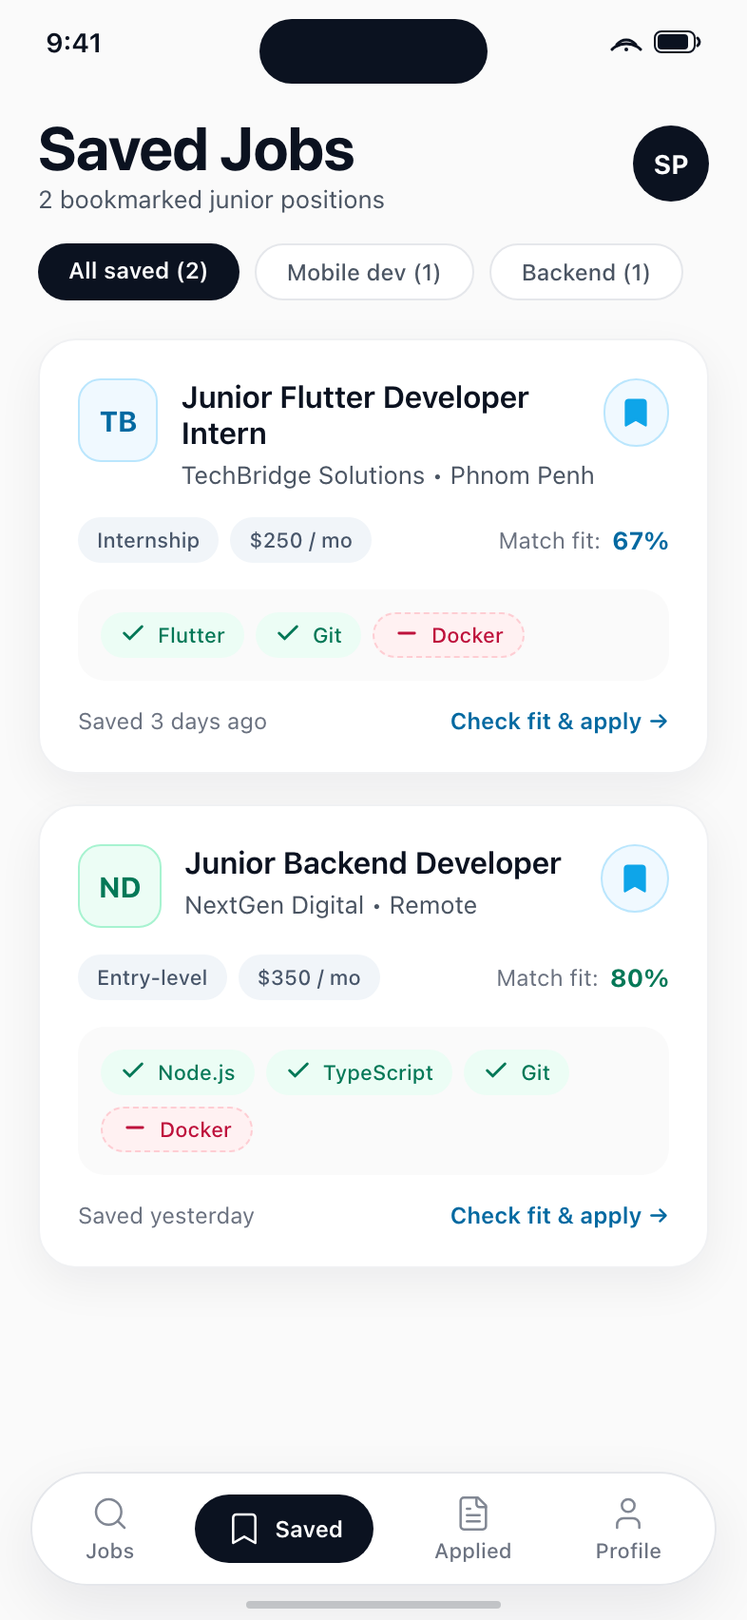
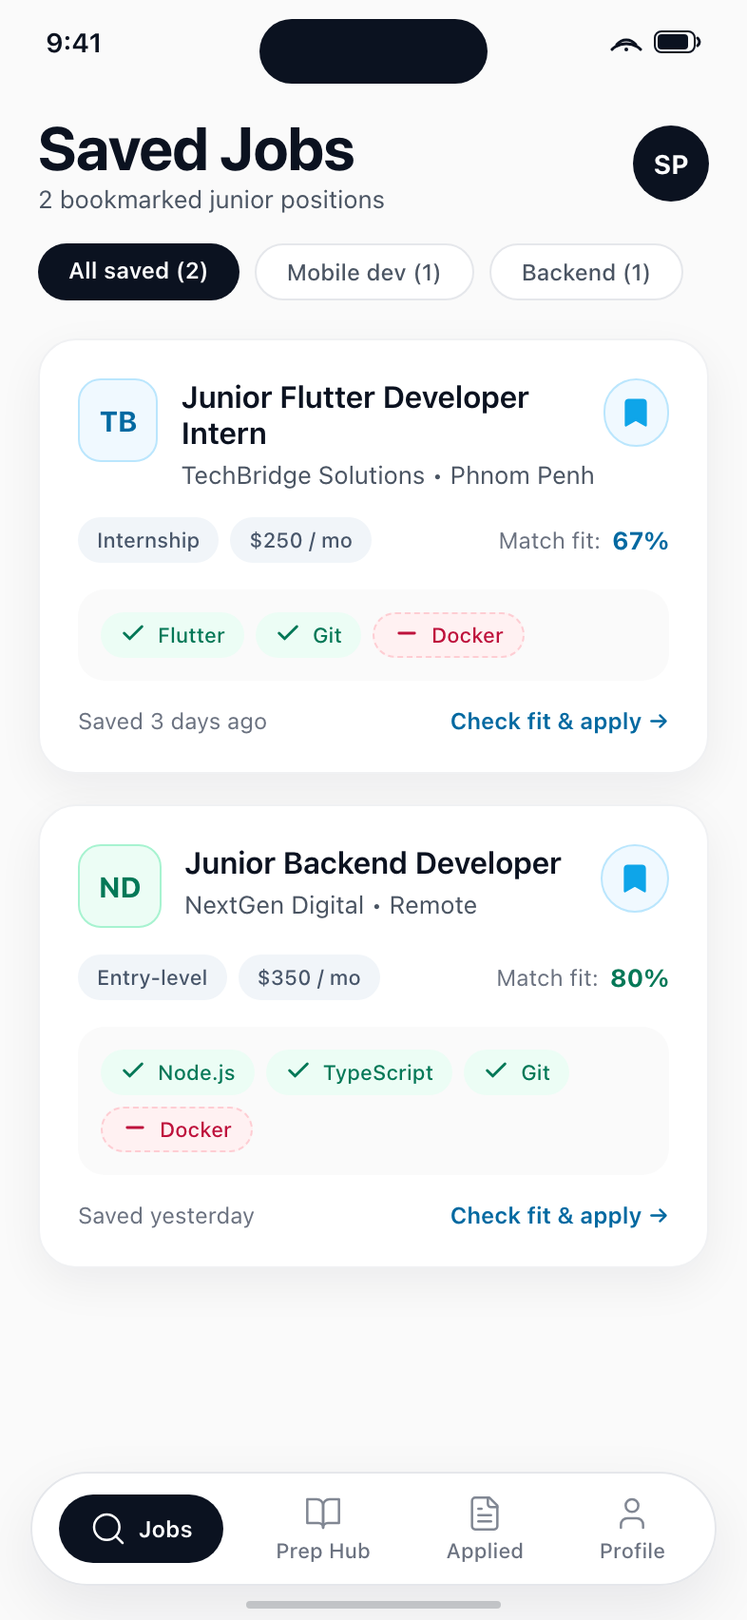
feat(navigation): integrate Prep Hub directly into mobile bottom nav (Option 1A)

Changed region(s): [[0.0611, 0.902, 0.5191, 0.9642], [0.5802, 0.902, 0.7023, 0.9642], [0.7939, 0.902, 0.8855, 0.9642]]

diff --git a/context/assets/figma/importable/devpath_redesign_master_board.html b/context/assets/figma/importable/devpath_redesign_master_board.html
@@ -709,6 +709,10 @@
   <div style="background: #0B1220; color: #FFFFFF; padding: 7px 16px; border-radius: 9999px; font-size: 12px; font-weight: 600; white-space: nowrap; cursor: pointer;">
     All roles (14)
   </div>
+  <div style="background: #FFFFFF; color: #4B5563; border: 1px solid #E5E7EB; padding: 7px 14px; border-radius: 9999px; font-size: 12px; font-weight: 500; white-space: nowrap; cursor: pointer; display: flex; align-items: center; gap: 5px;">
+    <span><svg width="20" height="20" viewBox="0 0 24 24" fill="none" stroke="currentColor" stroke-width="1.5" stroke-linecap="round" stroke-linejoin="round"><path d="m19 21-7-4-7 4V5a2 2 0 0 1 2-2h10a2 2 0 0 1 2 2v16z"/></svg></span>
+    <span>Saved (2)</span>
+  </div>
   <div style="background: #FFFFFF; color: #4B5563; border: 1px solid #E5E7EB; padding: 7px 16px; border-radius: 9999px; font-size: 12px; font-weight: 500; white-space: nowrap; cursor: pointer;">
     Mobile dev
   </div>
@@ -824,8 +828,8 @@
                 </div>
                 
                 <div style="display: flex; flex-direction: column; align-items: center; gap: 3px; color: #6B7280; font-size: 11px; font-weight: 500; padding: 6px 12px;">
-                  <span style="display: flex; align-items: center; opacity: 0.85;"><svg width="20" height="20" viewBox="0 0 24 24" fill="none" stroke="currentColor" stroke-width="1.5" stroke-linecap="round" stroke-linejoin="round"><path d="m19 21-7-4-7 4V5a2 2 0 0 1 2-2h10a2 2 0 0 1 2 2v16z"/></svg></span>
-                  <span>Saved</span>
+                  <span style="display: flex; align-items: center; opacity: 0.85;"><svg width="20" height="20" viewBox="0 0 24 24" fill="none" stroke="currentColor" stroke-width="1.5" stroke-linecap="round" stroke-linejoin="round"><path d="M2 3h6a4 4 0 0 1 4 4v14a3 3 0 0 0-3-3H2z"/><path d="M22 3h-6a4 4 0 0 0-4 4v14a3 3 0 0 1 3-3h7z"/></svg></span>
+                  <span>Prep Hub</span>
                 </div>
                 
                 <div style="display: flex; flex-direction: column; align-items: center; gap: 3px; color: #6B7280; font-size: 11px; font-weight: 500; padding: 6px 12px;">
@@ -1096,14 +1100,14 @@
         
         <div style="position: absolute; bottom: 18px; left: 16px; right: 16px; height: 60px; background: rgba(255, 255, 255, 0.94); backdrop-filter: blur(20px); -webkit-backdrop-filter: blur(20px); border: 1px solid #E5E7EB; border-radius: 9999px; box-shadow: 0 12px 32px rgba(11, 18, 32, 0.08); display: flex; align-items: center; justify-content: space-around; z-index: 50; padding: 0 6px;">
           
-                <div style="display: flex; flex-direction: column; align-items: center; gap: 3px; color: #6B7280; font-size: 11px; font-weight: 500; padding: 6px 12px;">
-                  <span style="display: flex; align-items: center; opacity: 0.85;"><svg width="20" height="20" viewBox="0 0 24 24" fill="none" stroke="currentColor" stroke-width="1.5" stroke-linecap="round" stroke-linejoin="round"><circle cx="11" cy="11" r="8"/><path d="m21 21-4.3-4.3"/></svg></span>
+                <div style="background: #0B1220; color: #FFFFFF; border-radius: 9999px; padding: 8px 16px; display: flex; align-items: center; gap: 6px; font-size: 12px; font-weight: 600;">
+                  <span style="display: flex; align-items: center;"><svg width="20" height="20" viewBox="0 0 24 24" fill="none" stroke="currentColor" stroke-width="1.5" stroke-linecap="round" stroke-linejoin="round"><circle cx="11" cy="11" r="8"/><path d="m21 21-4.3-4.3"/></svg></span>
                   <span>Jobs</span>
                 </div>
                 
-                <div style="background: #0B1220; color: #FFFFFF; border-radius: 9999px; padding: 8px 16px; display: flex; align-items: center; gap: 6px; font-size: 12px; font-weight: 600;">
-                  <span style="display: flex; align-items: center;"><svg width="20" height="20" viewBox="0 0 24 24" fill="none" stroke="currentColor" stroke-width="1.5" stroke-linecap="round" stroke-linejoin="round"><path d="m19 21-7-4-7 4V5a2 2 0 0 1 2-2h10a2 2 0 0 1 2 2v16z"/></svg></span>
-                  <span>Saved</span>
+                <div style="display: flex; flex-direction: column; align-items: center; gap: 3px; color: #6B7280; font-size: 11px; font-weight: 500; padding: 6px 12px;">
+                  <span style="display: flex; align-items: center; opacity: 0.85;"><svg width="20" height="20" viewBox="0 0 24 24" fill="none" stroke="currentColor" stroke-width="1.5" stroke-linecap="round" stroke-linejoin="round"><path d="M2 3h6a4 4 0 0 1 4 4v14a3 3 0 0 0-3-3H2z"/><path d="M22 3h-6a4 4 0 0 0-4 4v14a3 3 0 0 1 3-3h7z"/></svg></span>
+                  <span>Prep Hub</span>
                 </div>
                 
                 <div style="display: flex; flex-direction: column; align-items: center; gap: 3px; color: #6B7280; font-size: 11px; font-weight: 500; padding: 6px 12px;">
@@ -1253,8 +1257,8 @@
                 </div>
                 
                 <div style="display: flex; flex-direction: column; align-items: center; gap: 3px; color: #6B7280; font-size: 11px; font-weight: 500; padding: 6px 12px;">
-                  <span style="display: flex; align-items: center; opacity: 0.85;"><svg width="20" height="20" viewBox="0 0 24 24" fill="none" stroke="currentColor" stroke-width="1.5" stroke-linecap="round" stroke-linejoin="round"><path d="m19 21-7-4-7 4V5a2 2 0 0 1 2-2h10a2 2 0 0 1 2 2v16z"/></svg></span>
-                  <span>Saved</span>
+                  <span style="display: flex; align-items: center; opacity: 0.85;"><svg width="20" height="20" viewBox="0 0 24 24" fill="none" stroke="currentColor" stroke-width="1.5" stroke-linecap="round" stroke-linejoin="round"><path d="M2 3h6a4 4 0 0 1 4 4v14a3 3 0 0 0-3-3H2z"/><path d="M22 3h-6a4 4 0 0 0-4 4v14a3 3 0 0 1 3-3h7z"/></svg></span>
+                  <span>Prep Hub</span>
                 </div>
                 
                 <div style="background: #0B1220; color: #FFFFFF; border-radius: 9999px; padding: 8px 16px; display: flex; align-items: center; gap: 6px; font-size: 12px; font-weight: 600;">
@@ -1285,23 +1289,18 @@
             <svg width="25" height="12" viewBox="0 0 25 12" fill="none"><rect x="0.5" y="0.5" width="21" height="11" rx="3.5" stroke="#0B1220"/><rect x="2" y="2" width="16" height="8" rx="2" fill="#0B1220"/><path d="M23 4C23.5 4.5 24 5.2 24 6C24 6.8 23.5 7.5 23 8" stroke="#0B1220" stroke-width="1.5" stroke-linecap="round"/></svg>
           </div>
         </div>
-        <div style="flex: 1; overflow-y: auto; padding: 8px 20px 24px 20px;">
+        <div style="flex: 1; overflow-y: auto; padding: 8px 20px 90px 20px;">
           
 <!-- Top Bar -->
-<div style="display: flex; justify-content: space-between; align-items: center; margin: 4px 0 16px 0;">
-  <button style="width: 40px; height: 40px; border-radius: 9999px; background: #FFFFFF; border: 1px solid #E5E7EB; display: flex; align-items: center; justify-content: center; color: #0B1220; cursor: pointer;">
-    <svg width="20" height="20" viewBox="0 0 24 24" fill="none" stroke="currentColor" stroke-width="1.5" stroke-linecap="round" stroke-linejoin="round"><path d="m12 19-7-7 7-7"/><path d="M19 12H5"/></svg>
-  </button>
-  <span style="font-size: 14px; font-weight: 600; color: #0B1220;">Preparation Hub</span>
-  <div style="width: 40px;"></div>
+<div style="display: flex; justify-content: space-between; align-items: center; margin: 8px 0 18px 0;">
+  <div>
+    <h1 style="font-size: 32px; font-weight: 700; color: #0B1220; letter-spacing: -0.02em; line-height: 1.1;">Prep Hub</h1>
+    <p style="font-size: 13px; color: #4B5563; margin-top: 2px;">Guides & learning roadmaps</p>
+  </div>
+  <div style="width: 40px; height: 40px; border-radius: 9999px; background: #0B1220; color: #FFFFFF; display: flex; align-items: center; justify-content: center; font-size: 14px; font-weight: 700;">
+    SP
+  </div>
 </div>
-
-<h1 style="font-size: 26px; font-weight: 700; color: #0B1220; letter-spacing: -0.02em; line-height: 1.15; margin-bottom: 6px;">
-  Preparation Guides
-</h1>
-<p style="font-size: 13px; color: #4B5563; margin-bottom: 20px;">
-  Tailored resources to close your technical skill gaps.
-</p>
 
 <!-- AI Study Roadmap Hero (F-05 Could-Have) -->
 <div style="background: #F0F9FF; border: 1px solid #BAE6FD; border-radius: 20px; padding: 18px; margin-bottom: 24px; position: relative; overflow: hidden;">
@@ -1363,6 +1362,30 @@
   </p>
 </div>
 
+        </div>
+        
+        <div style="position: absolute; bottom: 18px; left: 16px; right: 16px; height: 60px; background: rgba(255, 255, 255, 0.94); backdrop-filter: blur(20px); -webkit-backdrop-filter: blur(20px); border: 1px solid #E5E7EB; border-radius: 9999px; box-shadow: 0 12px 32px rgba(11, 18, 32, 0.08); display: flex; align-items: center; justify-content: space-around; z-index: 50; padding: 0 6px;">
+          
+                <div style="display: flex; flex-direction: column; align-items: center; gap: 3px; color: #6B7280; font-size: 11px; font-weight: 500; padding: 6px 12px;">
+                  <span style="display: flex; align-items: center; opacity: 0.85;"><svg width="20" height="20" viewBox="0 0 24 24" fill="none" stroke="currentColor" stroke-width="1.5" stroke-linecap="round" stroke-linejoin="round"><circle cx="11" cy="11" r="8"/><path d="m21 21-4.3-4.3"/></svg></span>
+                  <span>Jobs</span>
+                </div>
+                
+                <div style="background: #0B1220; color: #FFFFFF; border-radius: 9999px; padding: 8px 16px; display: flex; align-items: center; gap: 6px; font-size: 12px; font-weight: 600;">
+                  <span style="display: flex; align-items: center;"><svg width="20" height="20" viewBox="0 0 24 24" fill="none" stroke="currentColor" stroke-width="1.5" stroke-linecap="round" stroke-linejoin="round"><path d="M2 3h6a4 4 0 0 1 4 4v14a3 3 0 0 0-3-3H2z"/><path d="M22 3h-6a4 4 0 0 0-4 4v14a3 3 0 0 1 3-3h7z"/></svg></span>
+                  <span>Prep Hub</span>
+                </div>
+                
+                <div style="display: flex; flex-direction: column; align-items: center; gap: 3px; color: #6B7280; font-size: 11px; font-weight: 500; padding: 6px 12px;">
+                  <span style="display: flex; align-items: center; opacity: 0.85;"><svg width="20" height="20" viewBox="0 0 24 24" fill="none" stroke="currentColor" stroke-width="1.5" stroke-linecap="round" stroke-linejoin="round"><path d="M15 2H6a2 2 0 0 0-2 2v16a2 2 0 0 0 2 2h12a2 2 0 0 0 2-2V7Z"/><path d="M14 2v4a2 2 0 0 0 2 2h4"/><path d="M10 9H8"/><path d="M16 13H8"/><path d="M16 17H8"/></svg></span>
+                  <span>Applied</span>
+                </div>
+                
+                <div style="display: flex; flex-direction: column; align-items: center; gap: 3px; color: #6B7280; font-size: 11px; font-weight: 500; padding: 6px 12px;">
+                  <span style="display: flex; align-items: center; opacity: 0.85;"><svg width="20" height="20" viewBox="0 0 24 24" fill="none" stroke="currentColor" stroke-width="1.5" stroke-linecap="round" stroke-linejoin="round"><path d="M19 21v-2a4 4 0 0 0-4-4H9a4 4 0 0 0-4 4v2"/><circle cx="12" cy="7" r="4"/></svg></span>
+                  <span>Profile</span>
+                </div>
+                
         </div>
         
         <div style="position: absolute; bottom: 6px; left: 50%; transform: translateX(-50%); width: 134px; height: 4px; background: #0B1220; border-radius: 2px; opacity: 0.2; z-index: 60;"></div>
@@ -1476,8 +1499,8 @@
                 </div>
                 
                 <div style="display: flex; flex-direction: column; align-items: center; gap: 3px; color: #6B7280; font-size: 11px; font-weight: 500; padding: 6px 12px;">
-                  <span style="display: flex; align-items: center; opacity: 0.85;"><svg width="20" height="20" viewBox="0 0 24 24" fill="none" stroke="currentColor" stroke-width="1.5" stroke-linecap="round" stroke-linejoin="round"><path d="m19 21-7-4-7 4V5a2 2 0 0 1 2-2h10a2 2 0 0 1 2 2v16z"/></svg></span>
-                  <span>Saved</span>
+                  <span style="display: flex; align-items: center; opacity: 0.85;"><svg width="20" height="20" viewBox="0 0 24 24" fill="none" stroke="currentColor" stroke-width="1.5" stroke-linecap="round" stroke-linejoin="round"><path d="M2 3h6a4 4 0 0 1 4 4v14a3 3 0 0 0-3-3H2z"/><path d="M22 3h-6a4 4 0 0 0-4 4v14a3 3 0 0 1 3-3h7z"/></svg></span>
+                  <span>Prep Hub</span>
                 </div>
                 
                 <div style="display: flex; flex-direction: column; align-items: center; gap: 3px; color: #6B7280; font-size: 11px; font-weight: 500; padding: 6px 12px;">

diff --git a/context/assets/figma/importable/SCR-07_prep_hub.html b/context/assets/figma/importable/SCR-07_prep_hub.html
@@ -186,7 +186,7 @@
   .content-area {
     flex: 1;
     overflow-y: auto;
-    padding: 8px 20px 24px 20px;
+    padding: 8px 20px 90px 20px;
   }
   .home-indicator {
     position: absolute;
@@ -214,20 +214,15 @@
   <div class="content-area">
     
 <!-- Top Bar -->
-<div style="display: flex; justify-content: space-between; align-items: center; margin: 4px 0 16px 0;">
-  <button style="width: 40px; height: 40px; border-radius: 9999px; background: #FFFFFF; border: 1px solid #E5E7EB; display: flex; align-items: center; justify-content: center; color: #0B1220; cursor: pointer;">
-    <svg width="20" height="20" viewBox="0 0 24 24" fill="none" stroke="currentColor" stroke-width="1.5" stroke-linecap="round" stroke-linejoin="round"><path d="m12 19-7-7 7-7"/><path d="M19 12H5"/></svg>
-  </button>
-  <span style="font-size: 14px; font-weight: 600; color: #0B1220;">Preparation Hub</span>
-  <div style="width: 40px;"></div>
+<div style="display: flex; justify-content: space-between; align-items: center; margin: 8px 0 18px 0;">
+  <div>
+    <h1 style="font-size: 32px; font-weight: 700; color: #0B1220; letter-spacing: -0.02em; line-height: 1.1;">Prep Hub</h1>
+    <p style="font-size: 13px; color: #4B5563; margin-top: 2px;">Guides & learning roadmaps</p>
+  </div>
+  <div style="width: 40px; height: 40px; border-radius: 9999px; background: #0B1220; color: #FFFFFF; display: flex; align-items: center; justify-content: center; font-size: 14px; font-weight: 700;">
+    SP
+  </div>
 </div>
-
-<h1 style="font-size: 26px; font-weight: 700; color: #0B1220; letter-spacing: -0.02em; line-height: 1.15; margin-bottom: 6px;">
-  Preparation Guides
-</h1>
-<p style="font-size: 13px; color: #4B5563; margin-bottom: 20px;">
-  Tailored resources to close your technical skill gaps.
-</p>
 
 <!-- AI Study Roadmap Hero (F-05 Could-Have) -->
 <div style="background: #F0F9FF; border: 1px solid #BAE6FD; border-radius: 20px; padding: 18px; margin-bottom: 24px; position: relative; overflow: hidden;">
@@ -291,6 +286,31 @@
 
   </div>
   
+        <!-- Floating Pill Bottom Nav -->
+        <div style="position: absolute; bottom: 18px; left: 16px; right: 16px; height: 60px; background: rgba(255, 255, 255, 0.94); backdrop-filter: blur(20px); -webkit-backdrop-filter: blur(20px); border: 1px solid #E5E7EB; border-radius: 9999px; box-shadow: 0 12px 32px rgba(11, 18, 32, 0.08); display: flex; align-items: center; justify-content: space-around; z-index: 50; padding: 0 6px;">
+          
+                <div style="display: flex; flex-direction: column; align-items: center; gap: 3px; color: #6B7280; font-size: 11px; font-weight: 500; padding: 6px 12px;">
+                  <span style="display: flex; align-items: center; opacity: 0.85;"><svg width="20" height="20" viewBox="0 0 24 24" fill="none" stroke="currentColor" stroke-width="1.5" stroke-linecap="round" stroke-linejoin="round"><circle cx="11" cy="11" r="8"/><path d="m21 21-4.3-4.3"/></svg></span>
+                  <span>Jobs</span>
+                </div>
+                
+                <div style="background: #0B1220; color: #FFFFFF; border-radius: 9999px; padding: 8px 16px; display: flex; align-items: center; gap: 6px; font-size: 12px; font-weight: 600;">
+                  <span style="display: flex; align-items: center;"><svg width="20" height="20" viewBox="0 0 24 24" fill="none" stroke="currentColor" stroke-width="1.5" stroke-linecap="round" stroke-linejoin="round"><path d="M2 3h6a4 4 0 0 1 4 4v14a3 3 0 0 0-3-3H2z"/><path d="M22 3h-6a4 4 0 0 0-4 4v14a3 3 0 0 1 3-3h7z"/></svg></span>
+                  <span>Prep Hub</span>
+                </div>
+                
+                <div style="display: flex; flex-direction: column; align-items: center; gap: 3px; color: #6B7280; font-size: 11px; font-weight: 500; padding: 6px 12px;">
+                  <span style="display: flex; align-items: center; opacity: 0.85;"><svg width="20" height="20" viewBox="0 0 24 24" fill="none" stroke="currentColor" stroke-width="1.5" stroke-linecap="round" stroke-linejoin="round"><path d="M15 2H6a2 2 0 0 0-2 2v16a2 2 0 0 0 2 2h12a2 2 0 0 0 2-2V7Z"/><path d="M14 2v4a2 2 0 0 0 2 2h4"/><path d="M10 9H8"/><path d="M16 13H8"/><path d="M16 17H8"/></svg></span>
+                  <span>Applied</span>
+                </div>
+                
+                <div style="display: flex; flex-direction: column; align-items: center; gap: 3px; color: #6B7280; font-size: 11px; font-weight: 500; padding: 6px 12px;">
+                  <span style="display: flex; align-items: center; opacity: 0.85;"><svg width="20" height="20" viewBox="0 0 24 24" fill="none" stroke="currentColor" stroke-width="1.5" stroke-linecap="round" stroke-linejoin="round"><path d="M19 21v-2a4 4 0 0 0-4-4H9a4 4 0 0 0-4 4v2"/><circle cx="12" cy="7" r="4"/></svg></span>
+                  <span>Profile</span>
+                </div>
+                
+        </div>
+        
   <div class="home-indicator"></div>
 </body>
 </html>

diff --git a/context/assets/figma/importable/SCR-05_saved_jobs.html b/context/assets/figma/importable/SCR-05_saved_jobs.html
@@ -325,14 +325,14 @@
         <!-- Floating Pill Bottom Nav -->
         <div style="position: absolute; bottom: 18px; left: 16px; right: 16px; height: 60px; background: rgba(255, 255, 255, 0.94); backdrop-filter: blur(20px); -webkit-backdrop-filter: blur(20px); border: 1px solid #E5E7EB; border-radius: 9999px; box-shadow: 0 12px 32px rgba(11, 18, 32, 0.08); display: flex; align-items: center; justify-content: space-around; z-index: 50; padding: 0 6px;">
           
-                <div style="display: flex; flex-direction: column; align-items: center; gap: 3px; color: #6B7280; font-size: 11px; font-weight: 500; padding: 6px 12px;">
-                  <span style="display: flex; align-items: center; opacity: 0.85;"><svg width="20" height="20" viewBox="0 0 24 24" fill="none" stroke="currentColor" stroke-width="1.5" stroke-linecap="round" stroke-linejoin="round"><circle cx="11" cy="11" r="8"/><path d="m21 21-4.3-4.3"/></svg></span>
+                <div style="background: #0B1220; color: #FFFFFF; border-radius: 9999px; padding: 8px 16px; display: flex; align-items: center; gap: 6px; font-size: 12px; font-weight: 600;">
+                  <span style="display: flex; align-items: center;"><svg width="20" height="20" viewBox="0 0 24 24" fill="none" stroke="currentColor" stroke-width="1.5" stroke-linecap="round" stroke-linejoin="round"><circle cx="11" cy="11" r="8"/><path d="m21 21-4.3-4.3"/></svg></span>
                   <span>Jobs</span>
                 </div>
                 
-                <div style="background: #0B1220; color: #FFFFFF; border-radius: 9999px; padding: 8px 16px; display: flex; align-items: center; gap: 6px; font-size: 12px; font-weight: 600;">
-                  <span style="display: flex; align-items: center;"><svg width="20" height="20" viewBox="0 0 24 24" fill="none" stroke="currentColor" stroke-width="1.5" stroke-linecap="round" stroke-linejoin="round"><path d="m19 21-7-4-7 4V5a2 2 0 0 1 2-2h10a2 2 0 0 1 2 2v16z"/></svg></span>
-                  <span>Saved</span>
+                <div style="display: flex; flex-direction: column; align-items: center; gap: 3px; color: #6B7280; font-size: 11px; font-weight: 500; padding: 6px 12px;">
+                  <span style="display: flex; align-items: center; opacity: 0.85;"><svg width="20" height="20" viewBox="0 0 24 24" fill="none" stroke="currentColor" stroke-width="1.5" stroke-linecap="round" stroke-linejoin="round"><path d="M2 3h6a4 4 0 0 1 4 4v14a3 3 0 0 0-3-3H2z"/><path d="M22 3h-6a4 4 0 0 0-4 4v14a3 3 0 0 1 3-3h7z"/></svg></span>
+                  <span>Prep Hub</span>
                 </div>
                 
                 <div style="display: flex; flex-direction: column; align-items: center; gap: 3px; color: #6B7280; font-size: 11px; font-weight: 500; padding: 6px 12px;">

diff --git a/context/assets/figma/importable/SCR-03_job_board.html b/context/assets/figma/importable/SCR-03_job_board.html
@@ -244,6 +244,10 @@
   <div style="background: #0B1220; color: #FFFFFF; padding: 7px 16px; border-radius: 9999px; font-size: 12px; font-weight: 600; white-space: nowrap; cursor: pointer;">
     All roles (14)
   </div>
+  <div style="background: #FFFFFF; color: #4B5563; border: 1px solid #E5E7EB; padding: 7px 14px; border-radius: 9999px; font-size: 12px; font-weight: 500; white-space: nowrap; cursor: pointer; display: flex; align-items: center; gap: 5px;">
+    <span><svg width="20" height="20" viewBox="0 0 24 24" fill="none" stroke="currentColor" stroke-width="1.5" stroke-linecap="round" stroke-linejoin="round"><path d="m19 21-7-4-7 4V5a2 2 0 0 1 2-2h10a2 2 0 0 1 2 2v16z"/></svg></span>
+    <span>Saved (2)</span>
+  </div>
   <div style="background: #FFFFFF; color: #4B5563; border: 1px solid #E5E7EB; padding: 7px 16px; border-radius: 9999px; font-size: 12px; font-weight: 500; white-space: nowrap; cursor: pointer;">
     Mobile dev
   </div>
@@ -360,8 +364,8 @@
                 </div>
                 
                 <div style="display: flex; flex-direction: column; align-items: center; gap: 3px; color: #6B7280; font-size: 11px; font-weight: 500; padding: 6px 12px;">
-                  <span style="display: flex; align-items: center; opacity: 0.85;"><svg width="20" height="20" viewBox="0 0 24 24" fill="none" stroke="currentColor" stroke-width="1.5" stroke-linecap="round" stroke-linejoin="round"><path d="m19 21-7-4-7 4V5a2 2 0 0 1 2-2h10a2 2 0 0 1 2 2v16z"/></svg></span>
-                  <span>Saved</span>
+                  <span style="display: flex; align-items: center; opacity: 0.85;"><svg width="20" height="20" viewBox="0 0 24 24" fill="none" stroke="currentColor" stroke-width="1.5" stroke-linecap="round" stroke-linejoin="round"><path d="M2 3h6a4 4 0 0 1 4 4v14a3 3 0 0 0-3-3H2z"/><path d="M22 3h-6a4 4 0 0 0-4 4v14a3 3 0 0 1 3-3h7z"/></svg></span>
+                  <span>Prep Hub</span>
                 </div>
                 
                 <div style="display: flex; flex-direction: column; align-items: center; gap: 3px; color: #6B7280; font-size: 11px; font-weight: 500; padding: 6px 12px;">

diff --git a/context/assets/figma/importable/SCR-06_applications.html b/context/assets/figma/importable/SCR-06_applications.html
@@ -331,8 +331,8 @@
                 </div>
                 
                 <div style="display: flex; flex-direction: column; align-items: center; gap: 3px; color: #6B7280; font-size: 11px; font-weight: 500; padding: 6px 12px;">
-                  <span style="display: flex; align-items: center; opacity: 0.85;"><svg width="20" height="20" viewBox="0 0 24 24" fill="none" stroke="currentColor" stroke-width="1.5" stroke-linecap="round" stroke-linejoin="round"><path d="m19 21-7-4-7 4V5a2 2 0 0 1 2-2h10a2 2 0 0 1 2 2v16z"/></svg></span>
-                  <span>Saved</span>
+                  <span style="display: flex; align-items: center; opacity: 0.85;"><svg width="20" height="20" viewBox="0 0 24 24" fill="none" stroke="currentColor" stroke-width="1.5" stroke-linecap="round" stroke-linejoin="round"><path d="M2 3h6a4 4 0 0 1 4 4v14a3 3 0 0 0-3-3H2z"/><path d="M22 3h-6a4 4 0 0 0-4 4v14a3 3 0 0 1 3-3h7z"/></svg></span>
+                  <span>Prep Hub</span>
                 </div>
                 
                 <div style="background: #0B1220; color: #FFFFFF; border-radius: 9999px; padding: 8px 16px; display: flex; align-items: center; gap: 6px; font-size: 12px; font-weight: 600;">

diff --git a/context/assets/figma/importable/SCR-08_candidate_profile.html b/context/assets/figma/importable/SCR-08_candidate_profile.html
@@ -307,8 +307,8 @@
                 </div>
                 
                 <div style="display: flex; flex-direction: column; align-items: center; gap: 3px; color: #6B7280; font-size: 11px; font-weight: 500; padding: 6px 12px;">
-                  <span style="display: flex; align-items: center; opacity: 0.85;"><svg width="20" height="20" viewBox="0 0 24 24" fill="none" stroke="currentColor" stroke-width="1.5" stroke-linecap="round" stroke-linejoin="round"><path d="m19 21-7-4-7 4V5a2 2 0 0 1 2-2h10a2 2 0 0 1 2 2v16z"/></svg></span>
-                  <span>Saved</span>
+                  <span style="display: flex; align-items: center; opacity: 0.85;"><svg width="20" height="20" viewBox="0 0 24 24" fill="none" stroke="currentColor" stroke-width="1.5" stroke-linecap="round" stroke-linejoin="round"><path d="M2 3h6a4 4 0 0 1 4 4v14a3 3 0 0 0-3-3H2z"/><path d="M22 3h-6a4 4 0 0 0-4 4v14a3 3 0 0 1 3-3h7z"/></svg></span>
+                  <span>Prep Hub</span>
                 </div>
                 
                 <div style="display: flex; flex-direction: column; align-items: center; gap: 3px; color: #6B7280; font-size: 11px; font-weight: 500; padding: 6px 12px;">

diff --git a/context/phase-04/01_figma_specifications.md b/context/phase-04/01_figma_specifications.md
@@ -107,7 +107,7 @@ Set in **Plus Jakarta Sans** for Latin characters, headings, and numerical displ
 | **Signature Match Ring** | Circular SVG progress ring with round caps. Sky `#0EA5E9` default; Green `#10B981` at 80%+; Grey `#9CA3AF` under 40%. Central bold percentage. Sizes: 36px (compact), 48px (table row), 96px (hero card). | Yes |
 | **Status Pill** | Soft tinted background with 6px colored dot and sentence-case text: `Under review`, `Submitted`, `Accepted`, `Rejected`. | Yes |
 | **Text Inputs** | 52px height, 14px radius, filled `#F5F6F8` background, no border until focused (then 2px `#0EA5E9` ring with white surface). | Yes |
-| **Mobile Bottom Nav** | Floating pill bar inset 16px from edges, blurred white background (`rgba(255,255,255,0.94)`), ink-black active pill with white icon & label. | Yes |
+| **Mobile Bottom Nav** | Floating pill bar inset 16px from edges, blurred white background (`rgba(255,255,255,0.94)`), four core candidate destinations (`Jobs`, `Prep Hub`, `Applied`, `Profile`), ink-black active pill with white icon & label. | Yes |
 | **Desktop Left Sidebar** | 240px slim left rail with DevPath brand, navigation links (active ink-black filled pill with sky icon), and user card at bottom. | Yes |
 
 ---
